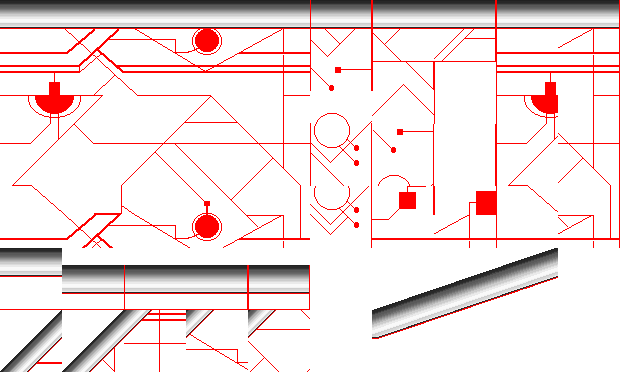
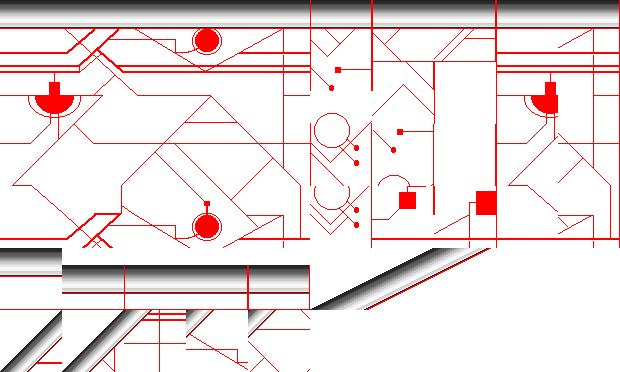
Changed from 45 degree slope to slopes that take more than 1 side by side tile (only works for even number of tile, odd tiles produce too much rounding problems)

Changed region(s): [[0.4903, 0.6505, 0.9194, 0.9167]]

diff --git a/core/src/com/sideprojects/megamanxphantomblade/physics/tiles/SquareTriangleTile.java b/core/src/com/sideprojects/megamanxphantomblade/physics/tiles/SquareTriangleTile.java
@@ -1,5 +1,7 @@
 package com.sideprojects.megamanxphantomblade.physics.tiles;
 
+import com.badlogic.gdx.math.Intersector;
+import com.badlogic.gdx.math.MathUtils;
 import com.badlogic.gdx.math.Polygon;
 import com.badlogic.gdx.math.Vector2;
 import com.sideprojects.megamanxphantomblade.MovingObject;
@@ -25,11 +27,11 @@ public class SquareTriangleTile extends TileBase {
     private float height;
     private float width;
     private SquareAngle squareAngle;
+    private float angle;// = 45 * MathUtils.degreesToRadians;
+    private float tanAngle;// = (float)Math.tan(angle);
 
-    private TileBase tileTopLeft;
-    private TileBase tileTopRight;
-    private TileBase tileBottomLeft;
-    private TileBase tileBottomRight;
+    private TileBase leftTile;
+    private TileBase rightTile;
 
     public float xCorner;
     public float yCorner;
@@ -51,7 +53,11 @@ public class SquareTriangleTile extends TileBase {
     public float xBottomHigher;
     public float yBottomHigher;
 
-    public SquareTriangleTile(float x, float y, float xCorner, float yCorner, float xVertical, float yVertical, float xHorizontal, float yHorizontal) {
+    // Index of current tile and total number of tiles that lie in a row, before incrementing Y
+    private int index;
+    private int total;
+
+    public SquareTriangleTile(float x, float y, float xCorner, float yCorner, float xVertical, float yVertical, float xHorizontal, float yHorizontal, int index, int total) {
         this.x = x;
         this.y = y;
         this.xCorner = xCorner;
@@ -60,9 +66,13 @@ public class SquareTriangleTile extends TileBase {
         this.yVertical = yVertical;
         this.xHorizontal = xHorizontal;
         this.yHorizontal = yHorizontal;
+        this.index = index;
+        this.total = total;
 
         height = Math.abs(yVertical - yCorner);
         width = Math.abs(xHorizontal - xCorner);
+        angle = MathUtils.atan2(height, width);
+        tanAngle = height;//(float)Math.tan(angle);
 
         if (xCorner == x && yCorner == y) {
             squareAngle = SquareAngle.BottomLeft;
@@ -107,7 +117,7 @@ public class SquareTriangleTile extends TileBase {
         }
 
         float[] vertices = new float[] {
-                xCorner, yCorner, xVertical, yVertical, xHorizontal, yHorizontal
+                xCorner, yCorner, xHorizontal, yHorizontal, xVertical, yVertical
         };
         tile = new Polygon(vertices);
     }
@@ -148,10 +158,16 @@ public class SquareTriangleTile extends TileBase {
                                           TileBase tileBottomLeft,
                                           TileBase tileBottomLRight,
                                           boolean overlapMode) {
-        this.tileTopLeft = tileTopLeft;
-        this.tileTopRight = tileTopRight;
-        this.tileBottomLeft = tileBottomLeft;
-        this.tileBottomRight = tileBottomLRight;
+        if (index > 0) {
+            leftTile = tileLeft;
+        } else {
+            leftTile = tileBottomLeft;
+        }
+        if (index < total - 1 || !(tileTopRight instanceof SquareTriangleTile)) {
+            rightTile = tileRight;
+        } else {
+            rightTile = tileTopRight;
+        }
 
         Vector2 start = ray.getStart();
         Vector2 end = ray.getEnd();
@@ -180,10 +196,13 @@ public class SquareTriangleTile extends TileBase {
 //            Collision right = new Collision(GeoMathRectangle.findIntersectionRight(this, start, end), Collision.Side.Right, ray, this);
 //            if (right.point != null) collisionList.add(right);
 //        }
-        if (squareAngle != SquareAngle.TopLeft && squareAngle != SquareAngle.TopRight &&
-                ray.orientation != CollisionDetectionRay.Orientation.Horizontal &&
-                tileUp == null) {
-            Collision up = new Collision(object, GeoMathTriangle.findVertexIntersectionUp(this, start, end), Collision.Side.UpRamp, ray, this, tileBottomLeft, tileTopRight);
+        if (ray.orientation != CollisionDetectionRay.Orientation.Horizontal && tileUp == null &&
+                (squareAngle == SquareAngle.BottomRight || squareAngle == SquareAngle.BottomLeft)) {
+//                (squareAngle == SquareAngle.BottomRight &&
+//                        (object.direction == MovingObject.RIGHT && ray.side == CollisionDetectionRay.Side.Front ||
+//                                object.direction == MovingObject.LEFT && ray.side == CollisionDetectionRay.Side.Back)
+//                )) {
+            Collision up = new Collision(object, GeoMathTriangle.findVertexIntersectionUp(this, start, end), Collision.Side.UpRamp, ray, this, leftTile, rightTile);
             if (up.point != null) collisionList.add(up);
         }
 //        if (squareAngle != SquareAngle.BottomLeft && squareAngle != SquareAngle.BottomRight &&
@@ -216,7 +235,7 @@ public class SquareTriangleTile extends TileBase {
                 switch (ray.orientation) {
                     case Diagonal:
                         float finalX = ray.getEnd().x;
-                        finalPos.y = calculateFinalY(finalX, tileTopRight);
+                        finalPos.y = calculateFinalY(finalX, rightTile);
                         break;
                 }
             }
@@ -237,7 +256,7 @@ public class SquareTriangleTile extends TileBase {
                     Vector2 intersection = GeoMathTriangle.findLineIntersectionUp(this, horizontalRay.getStart(), horizontalRay.getEnd());
                     if (intersection != null) {
                         float finalX = horizontalRay.getOrigin(horizontalRay.getEnd()).x + object.mapCollisionBounds.getWidth();
-                        finalPos.y = calculateFinalY(finalX, tileBottomLeft);
+                        finalPos.y = calculateFinalY(finalX, leftTile);
                     }
                 }
             }
@@ -253,24 +272,30 @@ public class SquareTriangleTile extends TileBase {
     public float getYPositionIfStandingOnTile(float x) {
         switch (squareAngle) {
             case BottomRight:
-                return y() + (x - (int)x);
+                return y() + (x - (int)x) * getTanAngle();
             default:
-                return y() + (x - (int)x);
+                return y() + (x - (int)x) * getTanAngle();
         }
+//        Vector2 intersect = new Vector2();
+//        Intersector.intersectLines(xTopLower, yTopLower, xTopHigher, yTopHigher, x, 0, x, 1, intersect);
+//        return intersect.y;
+    }
+
+    public float getAngle() {
+        return angle;
+    }
+
+    public float getTanAngle() {
+        return tanAngle;
     }
 
     private float calculateFinalY(float finalX, TileBase nextTile) {
         float finalY;
         int xDifference = (int)finalX - (int)x();
-        float rightSideOfFloatingX = finalX - (int)finalX;
-        if (xDifference != 0) {
-            if (nextTile != null) {
-                finalY = nextTile.getYPositionIfStandingOnTile(finalX);
-            } else {
-                finalY = y() + xDifference;
-            }
+        if (xDifference != 0 && nextTile != null) {
+            finalY = nextTile.getYPositionIfStandingOnTile(finalX);
         } else {
-            finalY = y() + rightSideOfFloatingX;
+            finalY = getYPositionIfStandingOnTile(finalX);
         }
         return finalY;
     }

diff --git a/core/src/com/sideprojects/megamanxphantomblade/map/MapBase.java b/core/src/com/sideprojects/megamanxphantomblade/map/MapBase.java
@@ -31,6 +31,8 @@ import java.util.List;
  * Created by buivuhoang on 04/02/17.
  */
 public abstract class MapBase implements Disposable {
+    public static String TotalNumOfTiles = "Total";
+    public static String TileIndex = "Index";
     public static String Orientation = "Orientation";
     public static String Left = "Left";
     public static String Right = "Right";
@@ -128,10 +130,14 @@ public abstract class MapBase implements Disposable {
                         bounds[x][y] = new RectangleTile(x, y, 1, 45/62f);
                     } else if (properties.containsKey(TileType) && SquareTriangle.equals(properties.get(TileType, String.class))) {
                         String orientation = properties.get(Orientation, String.class);
+                        int totalTiles = properties.get(TotalNumOfTiles, Integer.class);
+                        int tileIndex = properties.get(TileIndex, Integer.class);
+                        float startY = y + tileIndex / (float)totalTiles;
+                        float endY = y + (tileIndex + 1) / (float)totalTiles;
                         if (Left.equals(orientation)) {
-                            bounds[x][y] = new SquareTriangleTile(x, y, x, y, x, y + 1, x + 1, y);
+                            bounds[x][y] = new SquareTriangleTile(x, startY, x, startY, x, endY, x + 1, startY, tileIndex, totalTiles);
                         } else if (Right.equals(orientation)) {
-                            bounds[x][y] = new SquareTriangleTile(x, y, x + 1, y, x + 1, y + 1, x, y);
+                            bounds[x][y] = new SquareTriangleTile(x, startY, x + 1, startY, x + 1, endY, x, startY, tileIndex, totalTiles);
                         }
                     } else {
                         bounds[x][y] = new RectangleTile(x, y, 1, 1);
@@ -171,21 +177,21 @@ public abstract class MapBase implements Disposable {
             }
         }
 
-//        for (EnemyBase enemy : enemyList) {
-//            // If the enemy is outside of player's range, kill it
-//            if (!isPointInPlayerRange(enemy.mapCollisionBounds.x, enemy.mapCollisionBounds.y)) {
-//                if (isPointInPlayerRange(enemy.spawnPos.x, enemy.spawnPos.y)) {
-//                    enemy.despawn(false);
-//                } else {
-//                    enemy.despawn(true);
-//                }
-//            } else if (!enemy.spawned && enemy.canSpawn) {
-//                enemy.spawn();
-//            }
-//            if (enemy.spawned) {
-//                enemy.update(deltaTime);
-//            }
-//        }
+        for (EnemyBase enemy : enemyList) {
+            // If the enemy is outside of player's range, kill it
+            if (!isPointInPlayerRange(enemy.mapCollisionBounds.x, enemy.mapCollisionBounds.y)) {
+                if (isPointInPlayerRange(enemy.spawnPos.x, enemy.spawnPos.y)) {
+                    enemy.despawn(false);
+                } else {
+                    enemy.despawn(true);
+                }
+            } else if (!enemy.spawned && enemy.canSpawn) {
+                enemy.spawn();
+            }
+            if (enemy.spawned) {
+                enemy.update(deltaTime);
+            }
+        }
 
         // If player dies, respawn for now
         if (player.isDead()) {

diff --git a/core/src/com/sideprojects/megamanxphantomblade/physics/PhysicsBase.java b/core/src/com/sideprojects/megamanxphantomblade/physics/PhysicsBase.java
@@ -77,9 +77,7 @@ public abstract class PhysicsBase {
         }
         if (vel.x != 0 && vel.y != 0) {
             // TODO: Fix bug where the triangle collision detection only takes into account diagonal rays, but while jumping upwards, there is only 1 diagonal ray pointing up from the top, hence collision not detected.
-//            detectionRayList.add(new CollisionDetectionRay(bounds, endPos, paddingX, paddingY, Side.Front, Orientation.Diagonal));
-            detectionRayList.add(new CollisionDetectionRay(bounds, endPos, paddingX, 0, Side.Front, Orientation.Diagonal));
-            detectionRayList.add(new CollisionDetectionRay(bounds, endPos, paddingX, bounds.height, Side.Front, Orientation.Diagonal));
+            detectionRayList.add(new CollisionDetectionRay(bounds, endPos, paddingX, paddingY, Side.Front, Orientation.Diagonal));
         }
 
         // Loop through map and use collision detection rays to detect...well..collisions.

diff --git a/core/src/com/sideprojects/megamanxphantomblade/math/GeoMathTriangle.java b/core/src/com/sideprojects/megamanxphantomblade/math/GeoMathTriangle.java
@@ -1,6 +1,7 @@
 package com.sideprojects.megamanxphantomblade.math;
 
 import com.badlogic.gdx.math.Intersector;
+import com.badlogic.gdx.math.MathUtils;
 import com.badlogic.gdx.math.Vector2;
 import com.sideprojects.megamanxphantomblade.physics.tiles.SquareTriangleTile;
 
@@ -28,6 +29,14 @@ public class GeoMathTriangle {
     }
 
     public static Vector2 findVertexIntersectionUp(SquareTriangleTile tile, Vector2 start, Vector2 end) {
+//        // Calculate the angle of the speed vector
+//        float angle = MathUtils.atan2(end.y - start.y, end.x - start.x);
+//        // Compare this angle to the tile's angle
+//        // If this angle is larger than the tile's angle, return null
+//        if (angle > tile.getAngle()) {
+//            return null;
+//        }
+
         Vector2 intersect = findLineIntersectionUp(tile, start, end);
 
         if (intersect == null) {

diff --git a/core/src/com/sideprojects/megamanxphantomblade/physics/tiles/RectangleTile.java b/core/src/com/sideprojects/megamanxphantomblade/physics/tiles/RectangleTile.java
@@ -111,6 +111,6 @@ public class RectangleTile extends TileBase {
 
 
     private boolean shouldThereBeCollisionWithSideTile(TileBase thisTile, TileBase otherTile) {
-        return otherTile == null || thisTile.getHeight() > otherTile.getHeight();
+        return otherTile == null || (thisTile.y() + thisTile.getHeight()) > (otherTile.y() + otherTile.getHeight());
     }
 }
